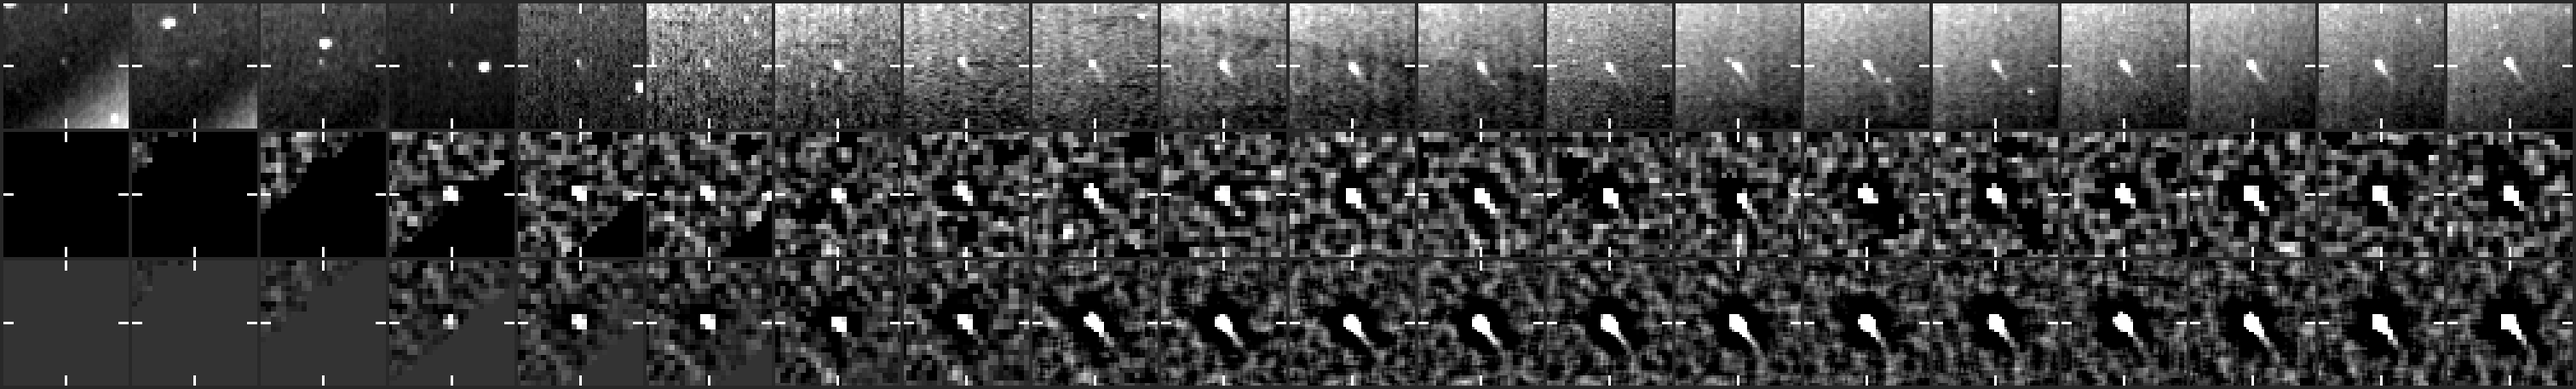
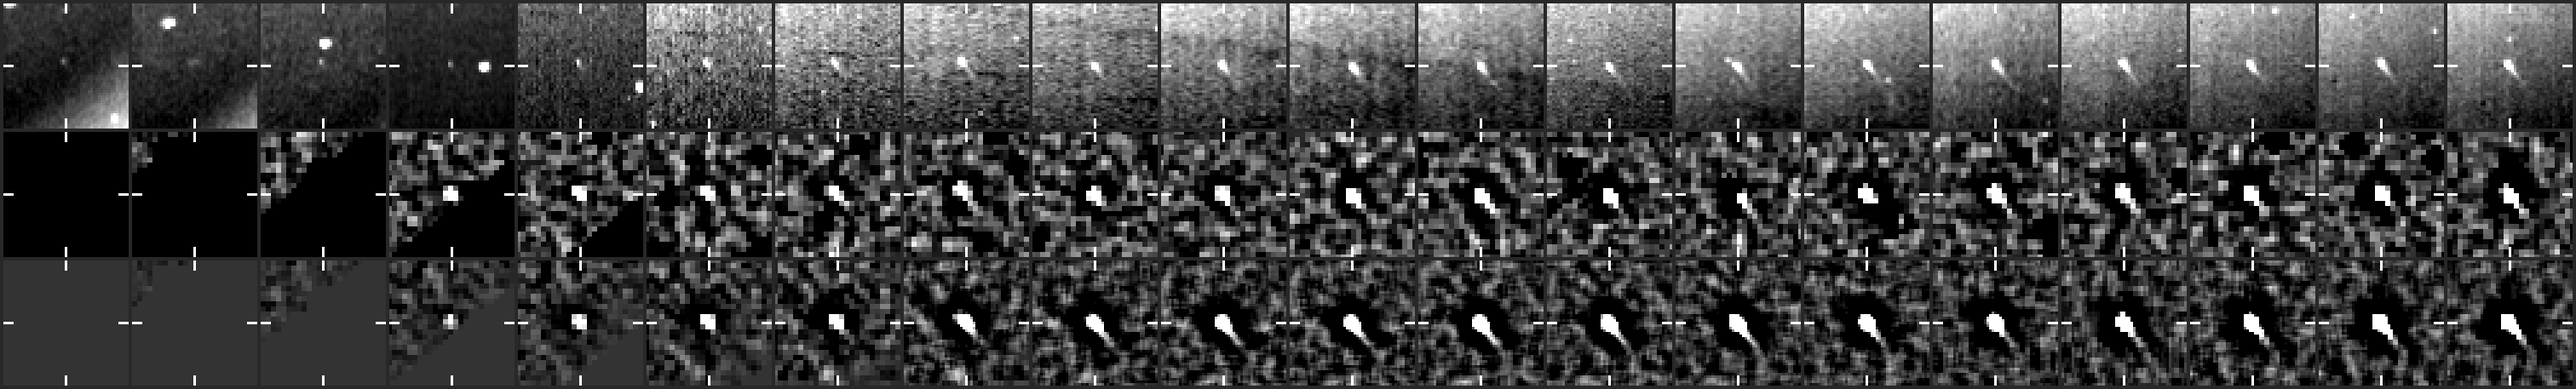
Live find 20261107T1315_1632_1770: hunter's package

Changed region(s): [[0.746, 0.0, 1.0, 1.0], [0.2487, 0.0, 0.4974, 1.0]]

diff --git a/results/ccor2/live-finds/20261107T1315_1632_1770/index.html b/results/ccor2/live-finds/20261107T1315_1632_1770/index.html
@@ -1,7 +1,7 @@
 <!doctype html>
 <html lang="en"><head><meta charset="utf-8"><meta name="viewport" content="width=device-width,initial-scale=1"><title>CCOR-1 candidate 20261107T1315_1632_1770</title>
 <meta property="og:title" content="CCOR-1 candidate 20261107T1315_1632_1770">
-<meta property="og:description" content="30 frames, 2026-11-07 13:15 to 20:30 UTC, peak 244 sigma, brightening.">
+<meta property="og:description" content="31 frames, 2026-11-07 13:15 to 20:45 UTC, peak 248 sigma, brightening.">
 <meta property="og:type" content="article">
 <meta name="twitter:card" content="summary_large_image">
 <meta property="og:url" content="https://scottholdren.github.io/sungrazer/results/ccor2/live-finds/20261107T1315_1632_1770/">
@@ -12,8 +12,8 @@
 <style>body{background:#0b0e14;color:#e6e6e6;font:15px/1.5 system-ui,sans-serif;max-width:980px;margin:0 auto;padding:16px}img{max-width:100%;height:auto;display:block;margin:8px 0}table{border-collapse:collapse;font-size:14px}th,td{border-bottom:1px solid #2a3140;padding:3px 10px;text-align:left}pre{background:#141a25;padding:10px;overflow:auto}a{color:#9ecbff}h1{font-size:22px}h2{font-size:17px;margin-top:28px;color:#9ecbff}code{background:#141a25;padding:0 4px}</style></head>
 <body>
 <h1>CCOR-1 candidate 20261107T1315_1632_1770</h1>
-<p><b>30 frames, 2026-11-07 13:15 to 20:30 UTC, peak 244 sigma, brightening.</b></p>
-<ul><li>Detected by the kreutz shift-and-stack search (8 frames stacked along the fitted motion); status candidate, alert tier since 14:00 UTC.</li><li>Motion (-4.2, -4.1) px per 15-min frame, 5.9 px/frame.</li><li>Last position 836 px from the Sun at position angle -53 deg, heading 8 deg off the Sun direction (Kreutz comets in CCOR-1 arrive from the lower right, position angle -10 to -45 deg, and head within ~20 deg of the Sun).</li><li>Matches Chuck Fields's CCOR-2 report <code>report_cf_20261107120006</code> (posted 2026-11-07T17:00+00:00; our alert came 2.6 h before it; we were following it 1.4 h before the post).</li></ul>
+<p><b>31 frames, 2026-11-07 13:15 to 20:45 UTC, peak 248 sigma, brightening.</b></p>
+<ul><li>Detected by the kreutz shift-and-stack search (8 frames stacked along the fitted motion); status candidate, alert tier since 14:00 UTC.</li><li>Motion (-4.1, -4.1) px per 15-min frame, 5.8 px/frame.</li><li>Last position 830 px from the Sun at position angle -53 deg, heading 8 deg off the Sun direction (Kreutz comets in CCOR-1 arrive from the lower right, position angle -10 to -45 deg, and head within ~20 deg of the Sun).</li><li>Matches Chuck Fields's CCOR-2 report <code>report_cf_20261107120006</code> (posted 2026-11-07T17:00+00:00; our alert came 2.6 h before it; we were following it 1.4 h before the post).</li></ul>
 <h2>Movie</h2>
 <p>A fixed patch of sky at 2x the camera's resolution: significance maps (stars and corona modelled out), the last 8 maps added along the fitted motion, black below 2.5 sigma. The ring rides the fitted path: green on frames with a measured hit, yellow before the first hit. A real object crosses the patch inside the ring; noise does not travel.</p>
 <p><img alt="movie" src="movie.gif"></p>
@@ -26,7 +26,7 @@
 <p><img alt="stacked cutout around the newest hit" src="thumb.png"></p>
 <h2>Positions</h2>
 <p>2048x1920 full-resolution frame, origin upper left, x right, y down, 0-based (the Sungrazer 'Upper Left' convention). They are the centre of the stacked detection predicted from the fitted motion, good to about a pixel, not per-frame centroids; hunters' measurements tend to fall ~1 px right and up of these.</p>
-<table><tr><th>date</th><th>HHMM</th><th>x</th><th>y</th><th>sigma</th></tr><tr><td>2026-11-07</td><td>1315</td><td>1632</td><td>1770</td><td>15.9</td></tr><tr><td>2026-11-07</td><td>1330</td><td>1628</td><td>1766</td><td>25.0</td></tr><tr><td>2026-11-07</td><td>1345</td><td>1624</td><td>1762</td><td>35.6</td></tr><tr><td>2026-11-07</td><td>1400</td><td>1620</td><td>1758</td><td>47.2</td></tr><tr><td>2026-11-07</td><td>1415</td><td>1616</td><td>1754</td><td>61.6</td></tr><tr><td>2026-11-07</td><td>1430</td><td>1612</td><td>1750</td><td>75.1</td></tr><tr><td>2026-11-07</td><td>1445</td><td>1608</td><td>1746</td><td>87.5</td></tr><tr><td>2026-11-07</td><td>1500</td><td>1604</td><td>1742</td><td>87.9</td></tr><tr><td>2026-11-07</td><td>1515</td><td>1598</td><td>1736</td><td>89.4</td></tr><tr><td>2026-11-07</td><td>1530</td><td>1594</td><td>1732</td><td>98.0</td></tr><tr><td>2026-11-07</td><td>1545</td><td>1590</td><td>1728</td><td>121.4</td></tr><tr><td>2026-11-07</td><td>1600</td><td>1586</td><td>1724</td><td>138.1</td></tr><tr><td>2026-11-07</td><td>1615</td><td>1582</td><td>1720</td><td>153.3</td></tr><tr><td>2026-11-07</td><td>1630</td><td>1578</td><td>1716</td><td>169.2</td></tr><tr><td>2026-11-07</td><td>1645</td><td>1574</td><td>1712</td><td>183.0</td></tr><tr><td>2026-11-07</td><td>1700</td><td>1570</td><td>1708</td><td>191.6</td></tr><tr><td>2026-11-07</td><td>1715</td><td>1566</td><td>1704</td><td>194.6</td></tr><tr><td>2026-11-07</td><td>1730</td><td>1562</td><td>1700</td><td>193.2</td></tr><tr><td>2026-11-07</td><td>1745</td><td>1558</td><td>1696</td><td>175.9</td></tr><tr><td>2026-11-07</td><td>1800</td><td>1550</td><td>1692</td><td>89.9</td></tr><tr><td>2026-11-07</td><td>1815</td><td>1550</td><td>1688</td><td>148.0</td></tr><tr><td>2026-11-07</td><td>1830</td><td>1546</td><td>1684</td><td>142.6</td></tr><tr><td>2026-11-07</td><td>1845</td><td>1542</td><td>1680</td><td>136.7</td></tr><tr><td>2026-11-07</td><td>1900</td><td>1538</td><td>1676</td><td>128.7</td></tr><tr><td>2026-11-07</td><td>1915</td><td>1532</td><td>1670</td><td>127.8</td></tr><tr><td>2026-11-07</td><td>1930</td><td>1528</td><td>1666</td><td>149.8</td></tr><tr><td>2026-11-07</td><td>1945</td><td>1524</td><td>1662</td><td>187.6</td></tr><tr><td>2026-11-07</td><td>2000</td><td>1520</td><td>1658</td><td>225.4</td></tr><tr><td>2026-11-07</td><td>2015</td><td>1516</td><td>1654</td><td>237.3</td></tr><tr><td>2026-11-07</td><td>2030</td><td>1512</td><td>1650</td><td>244.0</td></tr></table>
+<table><tr><th>date</th><th>HHMM</th><th>x</th><th>y</th><th>sigma</th></tr><tr><td>2026-11-07</td><td>1315</td><td>1632</td><td>1770</td><td>15.9</td></tr><tr><td>2026-11-07</td><td>1330</td><td>1628</td><td>1766</td><td>25.0</td></tr><tr><td>2026-11-07</td><td>1345</td><td>1624</td><td>1762</td><td>35.6</td></tr><tr><td>2026-11-07</td><td>1400</td><td>1620</td><td>1758</td><td>47.2</td></tr><tr><td>2026-11-07</td><td>1415</td><td>1616</td><td>1754</td><td>61.6</td></tr><tr><td>2026-11-07</td><td>1430</td><td>1612</td><td>1750</td><td>75.1</td></tr><tr><td>2026-11-07</td><td>1445</td><td>1608</td><td>1746</td><td>87.5</td></tr><tr><td>2026-11-07</td><td>1500</td><td>1604</td><td>1742</td><td>87.9</td></tr><tr><td>2026-11-07</td><td>1515</td><td>1598</td><td>1736</td><td>89.4</td></tr><tr><td>2026-11-07</td><td>1530</td><td>1594</td><td>1732</td><td>98.0</td></tr><tr><td>2026-11-07</td><td>1545</td><td>1590</td><td>1728</td><td>121.4</td></tr><tr><td>2026-11-07</td><td>1600</td><td>1586</td><td>1724</td><td>138.1</td></tr><tr><td>2026-11-07</td><td>1615</td><td>1582</td><td>1720</td><td>153.3</td></tr><tr><td>2026-11-07</td><td>1630</td><td>1578</td><td>1716</td><td>169.2</td></tr><tr><td>2026-11-07</td><td>1645</td><td>1574</td><td>1712</td><td>183.0</td></tr><tr><td>2026-11-07</td><td>1700</td><td>1570</td><td>1708</td><td>191.6</td></tr><tr><td>2026-11-07</td><td>1715</td><td>1566</td><td>1704</td><td>194.6</td></tr><tr><td>2026-11-07</td><td>1730</td><td>1562</td><td>1700</td><td>193.2</td></tr><tr><td>2026-11-07</td><td>1745</td><td>1558</td><td>1696</td><td>175.9</td></tr><tr><td>2026-11-07</td><td>1800</td><td>1550</td><td>1692</td><td>89.9</td></tr><tr><td>2026-11-07</td><td>1815</td><td>1550</td><td>1688</td><td>148.0</td></tr><tr><td>2026-11-07</td><td>1830</td><td>1546</td><td>1684</td><td>142.6</td></tr><tr><td>2026-11-07</td><td>1845</td><td>1542</td><td>1680</td><td>136.7</td></tr><tr><td>2026-11-07</td><td>1900</td><td>1538</td><td>1676</td><td>128.7</td></tr><tr><td>2026-11-07</td><td>1915</td><td>1532</td><td>1670</td><td>127.8</td></tr><tr><td>2026-11-07</td><td>1930</td><td>1528</td><td>1666</td><td>149.8</td></tr><tr><td>2026-11-07</td><td>1945</td><td>1524</td><td>1662</td><td>187.6</td></tr><tr><td>2026-11-07</td><td>2000</td><td>1520</td><td>1658</td><td>225.4</td></tr><tr><td>2026-11-07</td><td>2015</td><td>1516</td><td>1654</td><td>237.3</td></tr><tr><td>2026-11-07</td><td>2030</td><td>1512</td><td>1650</td><td>244.0</td></tr><tr><td>2026-11-07</td><td>2045</td><td>1508</td><td>1646</td><td>247.6</td></tr></table>
 <p>Form layout (HHMM x y):</p>
 <pre>1315 1632 1770
 1330 1628 1766
@@ -57,9 +57,10 @@
 1945 1524 1662
 2000 1520 1658
 2015 1516 1654
-2030 1512 1650</pre>
+2030 1512 1650
+2045 1508 1646</pre>
 <h2>Movie frames</h2>
 <p>Sigma inside the ring on the fitted position vs the brightest 0.1% of the whole patch. A real object sits clearly above the tail.</p>
-<table><tr><th>frame</th><th>ring</th><th>tail</th><th></th></tr><tr><td>20261107T121514</td><td>0.0</td><td>5.1</td><td></td></tr><tr><td>20261107T123014</td><td>0.0</td><td>5.0</td><td></td></tr><tr><td>20261107T124514</td><td>2.4</td><td>4.9</td><td></td></tr><tr><td>20261107T130014</td><td>12.5</td><td>5.3</td><td></td></tr><tr><td>20261107T131514</td><td>19.6</td><td>5.5</td><td>hit</td></tr><tr><td>20261107T133014</td><td>24.4</td><td>5.8</td><td>hit</td></tr><tr><td>20261107T134514</td><td>33.0</td><td>6.2</td><td>hit</td></tr><tr><td>20261107T140014</td><td>48.0</td><td>6.3</td><td>hit</td></tr><tr><td>20261107T141514</td><td>65.3</td><td>6.3</td><td>hit</td></tr><tr><td>20261107T143014</td><td>80.3</td><td>6.0</td><td>hit</td></tr><tr><td>20261107T144514</td><td>96.8</td><td>6.3</td><td>hit</td></tr><tr><td>20261107T150014</td><td>101.9</td><td>6.2</td><td>hit</td></tr><tr><td>20261107T151514</td><td>109.7</td><td>6.5</td><td>hit</td></tr><tr><td>20261107T153014</td><td>114.7</td><td>6.4</td><td>hit</td></tr><tr><td>20261107T154514</td><td>114.7</td><td>6.1</td><td>hit</td></tr><tr><td>20261107T160014</td><td>115.8</td><td>7.2</td><td>hit</td></tr><tr><td>20261107T161514</td><td>133.7</td><td>6.5</td><td>hit</td></tr><tr><td>20261107T163014</td><td>151.0</td><td>6.2</td><td>hit</td></tr><tr><td>20261107T164514</td><td>168.1</td><td>7.2</td><td>hit</td></tr><tr><td>20261107T170014</td><td>179.5</td><td>6.2</td><td>hit</td></tr><tr><td>20261107T171514</td><td>183.3</td><td>6.8</td><td>hit</td></tr><tr><td>20261107T173014</td><td>191.8</td><td>7.2</td><td>hit</td></tr><tr><td>20261107T174514</td><td>177.7</td><td>6.7</td><td>hit</td></tr><tr><td>20261107T180014</td><td>161.5</td><td>5.8</td><td>hit</td></tr><tr><td>20261107T181514</td><td>170.3</td><td>5.9</td><td>hit</td></tr><tr><td>20261107T183014</td><td>169.7</td><td>5.9</td><td>hit</td></tr><tr><td>20261107T184514</td><td>170.7</td><td>6.2</td><td>hit</td></tr><tr><td>20261107T190014</td><td>159.7</td><td>5.9</td><td>hit</td></tr><tr><td>20261107T191514</td><td>157.9</td><td>6.1</td><td>hit</td></tr><tr><td>20261107T193014</td><td>156.2</td><td>7.3</td><td>hit</td></tr><tr><td>20261107T194514</td><td>166.9</td><td>8.1</td><td>hit</td></tr><tr><td>20261107T200014</td><td>208.0</td><td>9.5</td><td>hit</td></tr><tr><td>20261107T201514</td><td>222.3</td><td>8.3</td><td>hit</td></tr><tr><td>20261107T203014</td><td>239.4</td><td>10.0</td><td>hit</td></tr></table>
-<p><i>Written 2026-11-07 21:04 UTC.</i></p>
+<table><tr><th>frame</th><th>ring</th><th>tail</th><th></th></tr><tr><td>20261107T121514</td><td>0.0</td><td>5.0</td><td></td></tr><tr><td>20261107T123014</td><td>0.0</td><td>5.0</td><td></td></tr><tr><td>20261107T124514</td><td>2.4</td><td>5.0</td><td></td></tr><tr><td>20261107T130014</td><td>12.5</td><td>5.5</td><td></td></tr><tr><td>20261107T131514</td><td>26.0</td><td>5.7</td><td>hit</td></tr><tr><td>20261107T133014</td><td>26.5</td><td>6.0</td><td>hit</td></tr><tr><td>20261107T134514</td><td>32.2</td><td>6.3</td><td>hit</td></tr><tr><td>20261107T140014</td><td>47.5</td><td>6.5</td><td>hit</td></tr><tr><td>20261107T141514</td><td>64.5</td><td>5.8</td><td>hit</td></tr><tr><td>20261107T143014</td><td>79.6</td><td>6.3</td><td>hit</td></tr><tr><td>20261107T144514</td><td>97.3</td><td>6.2</td><td>hit</td></tr><tr><td>20261107T150014</td><td>105.2</td><td>6.2</td><td>hit</td></tr><tr><td>20261107T151514</td><td>114.4</td><td>6.0</td><td>hit</td></tr><tr><td>20261107T153014</td><td>123.6</td><td>6.0</td><td>hit</td></tr><tr><td>20261107T154514</td><td>124.3</td><td>6.3</td><td>hit</td></tr><tr><td>20261107T160014</td><td>122.0</td><td>6.9</td><td>hit</td></tr><tr><td>20261107T161514</td><td>128.0</td><td>6.0</td><td>hit</td></tr><tr><td>20261107T163014</td><td>144.3</td><td>6.1</td><td>hit</td></tr><tr><td>20261107T164514</td><td>158.8</td><td>7.1</td><td>hit</td></tr><tr><td>20261107T170014</td><td>172.0</td><td>6.9</td><td>hit</td></tr><tr><td>20261107T171514</td><td>175.8</td><td>7.4</td><td>hit</td></tr><tr><td>20261107T173014</td><td>177.6</td><td>7.7</td><td>hit</td></tr><tr><td>20261107T174514</td><td>170.9</td><td>6.3</td><td>hit</td></tr><tr><td>20261107T180014</td><td>161.5</td><td>5.7</td><td>hit</td></tr><tr><td>20261107T181514</td><td>170.3</td><td>6.5</td><td>hit</td></tr><tr><td>20261107T183014</td><td>169.4</td><td>6.1</td><td>hit</td></tr><tr><td>20261107T184514</td><td>168.2</td><td>5.9</td><td>hit</td></tr><tr><td>20261107T190014</td><td>164.0</td><td>5.8</td><td>hit</td></tr><tr><td>20261107T191514</td><td>160.2</td><td>6.0</td><td>hit</td></tr><tr><td>20261107T193014</td><td>162.8</td><td>6.6</td><td>hit</td></tr><tr><td>20261107T194514</td><td>175.3</td><td>6.8</td><td>hit</td></tr><tr><td>20261107T200014</td><td>194.0</td><td>6.7</td><td>hit</td></tr><tr><td>20261107T201514</td><td>211.6</td><td>7.0</td><td>hit</td></tr><tr><td>20261107T203014</td><td>233.1</td><td>8.4</td><td>hit</td></tr><tr><td>20261107T204514</td><td>251.7</td><td>7.0</td><td>hit</td></tr></table>
+<p><i>Written 2026-11-07 21:15 UTC.</i></p>
 </body></html>

diff --git a/results/ccor2/live-finds/20261107T1315_1632_1770/README.md b/results/ccor2/live-finds/20261107T1315_1632_1770/README.md
@@ -1,10 +1,10 @@
 # CCOR-1 candidate 20261107T1315_1632_1770
 
-**30 frames, 2026-11-07 13:15 to 20:30 UTC, peak 244 sigma, brightening.**
+**31 frames, 2026-11-07 13:15 to 20:45 UTC, peak 248 sigma, brightening.**
 
 - Detected by the kreutz shift-and-stack search (8 frames stacked along the fitted motion); status candidate, alert tier since 14:00 UTC.
-- Motion (-4.2, -4.1) px per 15-min frame, 5.9 px/frame.
-- Last position 836 px from the Sun at position angle -53 deg, heading 8 deg off the Sun direction (Kreutz comets in CCOR-1 arrive from the lower right, position angle -10 to -45 deg, and head within ~20 deg of the Sun).
+- Motion (-4.1, -4.1) px per 15-min frame, 5.8 px/frame.
+- Last position 830 px from the Sun at position angle -53 deg, heading 8 deg off the Sun direction (Kreutz comets in CCOR-1 arrive from the lower right, position angle -10 to -45 deg, and head within ~20 deg of the Sun).
 - Matches Chuck Fields's CCOR-2 report `report_cf_20261107120006` (posted 2026-11-07T17:00+00:00; our alert came 2.6 h before it; we were following it 1.4 h before the post).
 
 ## Movie
@@ -63,6 +63,7 @@ Top: raw frame. Middle: significance map of that frame. Bottom: the detector's v
 | 2026-11-07 | 2000 | 1520 | 1658 | 225.4 |
 | 2026-11-07 | 2015 | 1516 | 1654 | 237.3 |
 | 2026-11-07 | 2030 | 1512 | 1650 | 244.0 |
+| 2026-11-07 | 2045 | 1508 | 1646 | 247.6 |
 
 Form layout (HHMM x y):
 
@@ -97,6 +98,7 @@ Form layout (HHMM x y):
 2000 1520 1658
 2015 1516 1654
 2030 1512 1650
+2045 1508 1646
 ```
 
 ## Movie frames
@@ -105,39 +107,40 @@ Sigma inside the ring on the fitted position vs the brightest 0.1% of the whole 
 
 | frame | ring | tail | |
 |---|---|---|---|
-| 20261107T121514 | 0.0 | 5.1 |  |
+| 20261107T121514 | 0.0 | 5.0 |  |
 | 20261107T123014 | 0.0 | 5.0 |  |
-| 20261107T124514 | 2.4 | 4.9 |  |
-| 20261107T130014 | 12.5 | 5.3 |  |
-| 20261107T131514 | 19.6 | 5.5 | hit |
-| 20261107T133014 | 24.4 | 5.8 | hit |
-| 20261107T134514 | 33.0 | 6.2 | hit |
-| 20261107T140014 | 48.0 | 6.3 | hit |
-| 20261107T141514 | 65.3 | 6.3 | hit |
-| 20261107T143014 | 80.3 | 6.0 | hit |
-| 20261107T144514 | 96.8 | 6.3 | hit |
-| 20261107T150014 | 101.9 | 6.2 | hit |
-| 20261107T151514 | 109.7 | 6.5 | hit |
-| 20261107T153014 | 114.7 | 6.4 | hit |
-| 20261107T154514 | 114.7 | 6.1 | hit |
-| 20261107T160014 | 115.8 | 7.2 | hit |
-| 20261107T161514 | 133.7 | 6.5 | hit |
-| 20261107T163014 | 151.0 | 6.2 | hit |
-| 20261107T164514 | 168.1 | 7.2 | hit |
-| 20261107T170014 | 179.5 | 6.2 | hit |
-| 20261107T171514 | 183.3 | 6.8 | hit |
-| 20261107T173014 | 191.8 | 7.2 | hit |
-| 20261107T174514 | 177.7 | 6.7 | hit |
-| 20261107T180014 | 161.5 | 5.8 | hit |
-| 20261107T181514 | 170.3 | 5.9 | hit |
-| 20261107T183014 | 169.7 | 5.9 | hit |
-| 20261107T184514 | 170.7 | 6.2 | hit |
-| 20261107T190014 | 159.7 | 5.9 | hit |
-| 20261107T191514 | 157.9 | 6.1 | hit |
-| 20261107T193014 | 156.2 | 7.3 | hit |
-| 20261107T194514 | 166.9 | 8.1 | hit |
-| 20261107T200014 | 208.0 | 9.5 | hit |
-| 20261107T201514 | 222.3 | 8.3 | hit |
-| 20261107T203014 | 239.4 | 10.0 | hit |
+| 20261107T124514 | 2.4 | 5.0 |  |
+| 20261107T130014 | 12.5 | 5.5 |  |
+| 20261107T131514 | 26.0 | 5.7 | hit |
+| 20261107T133014 | 26.5 | 6.0 | hit |
+| 20261107T134514 | 32.2 | 6.3 | hit |
+| 20261107T140014 | 47.5 | 6.5 | hit |
+| 20261107T141514 | 64.5 | 5.8 | hit |
+| 20261107T143014 | 79.6 | 6.3 | hit |
+| 20261107T144514 | 97.3 | 6.2 | hit |
+| 20261107T150014 | 105.2 | 6.2 | hit |
+| 20261107T151514 | 114.4 | 6.0 | hit |
+| 20261107T153014 | 123.6 | 6.0 | hit |
+| 20261107T154514 | 124.3 | 6.3 | hit |
+| 20261107T160014 | 122.0 | 6.9 | hit |
+| 20261107T161514 | 128.0 | 6.0 | hit |
+| 20261107T163014 | 144.3 | 6.1 | hit |
+| 20261107T164514 | 158.8 | 7.1 | hit |
+| 20261107T170014 | 172.0 | 6.9 | hit |
+| 20261107T171514 | 175.8 | 7.4 | hit |
+| 20261107T173014 | 177.6 | 7.7 | hit |
+| 20261107T174514 | 170.9 | 6.3 | hit |
+| 20261107T180014 | 161.5 | 5.7 | hit |
+| 20261107T181514 | 170.3 | 6.5 | hit |
+| 20261107T183014 | 169.4 | 6.1 | hit |
+| 20261107T184514 | 168.2 | 5.9 | hit |
+| 20261107T190014 | 164.0 | 5.8 | hit |
+| 20261107T191514 | 160.2 | 6.0 | hit |
+| 20261107T193014 | 162.8 | 6.6 | hit |
+| 20261107T194514 | 175.3 | 6.8 | hit |
+| 20261107T200014 | 194.0 | 6.7 | hit |
+| 20261107T201514 | 211.6 | 7.0 | hit |
+| 20261107T203014 | 233.1 | 8.4 | hit |
+| 20261107T204514 | 251.7 | 7.0 | hit |
 
-*Written 2026-11-07 21:04 UTC.*
+*Written 2026-11-07 21:15 UTC.*
